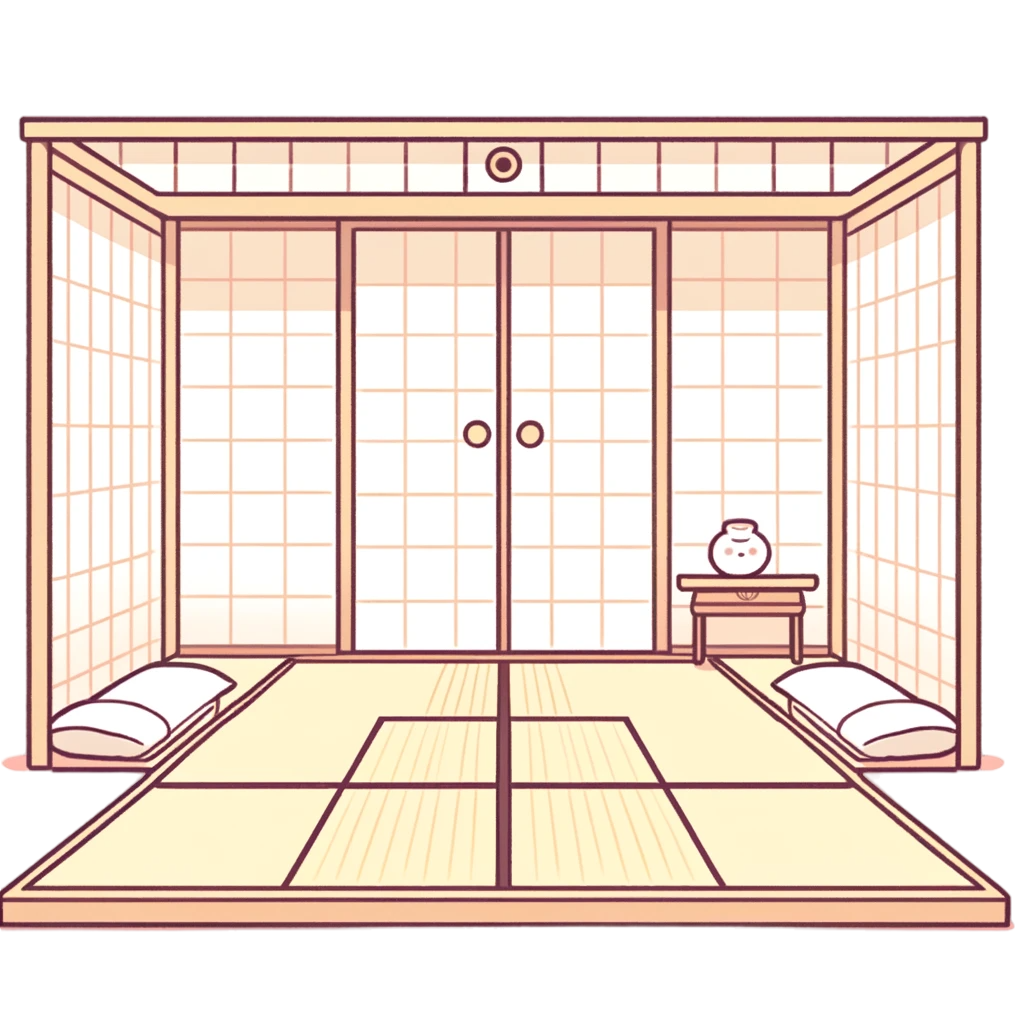
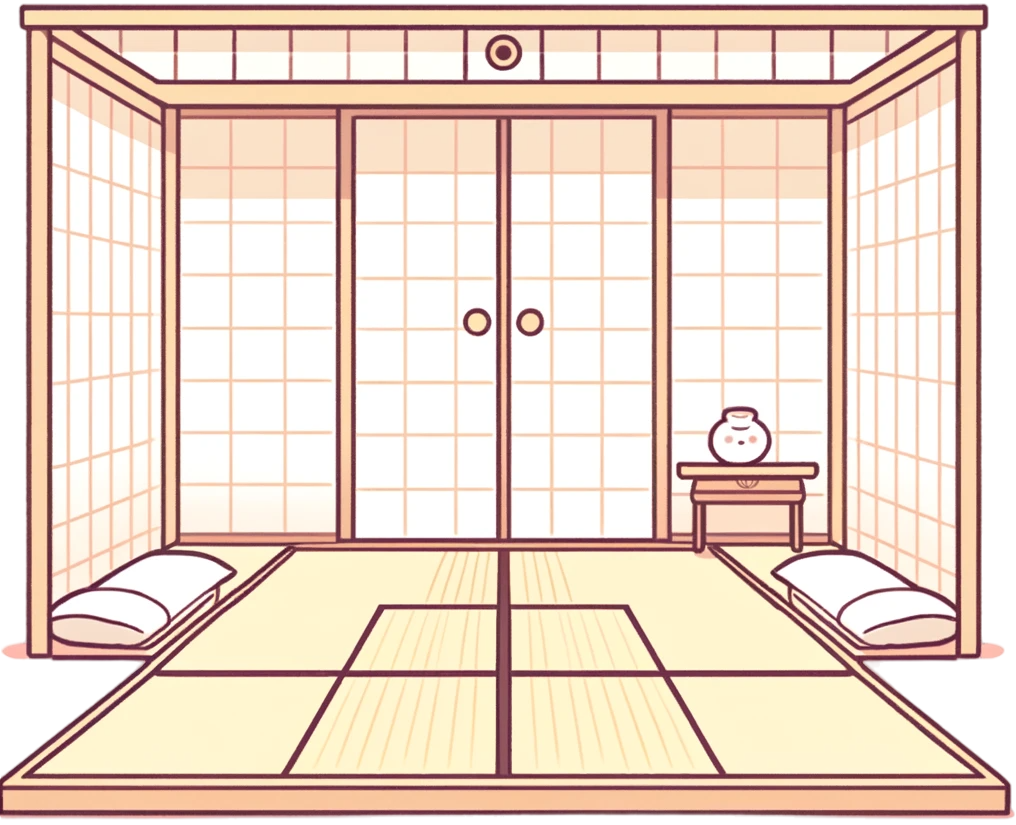
Update ClientHome component styles and replace dojo image; adjust height for improved layout

diff --git a/app/components/ClientHome.tsx b/app/components/ClientHome.tsx
@@ -117,7 +117,7 @@ const Home = () => {
         </div>
       )}
 
-      <div className="mx-auto pt-[60px] mt-[50px] bg-dojo bg-no-repeat bg-center bg-contain w-full flex justify-center flex-col h-[670px]">
+      <div className="mx-auto pt-[60px] mt-[50px] bg-dojo bg-no-repeat bg-center bg-contain w-full flex justify-center flex-col h-[590px]">
         <div className="flex justify-center items-center flex-col relative">
           <div className="font-mplus font-medium fukidashi-01-06 bg-white text-lg w-[600px]">
             {evaluateResponse
